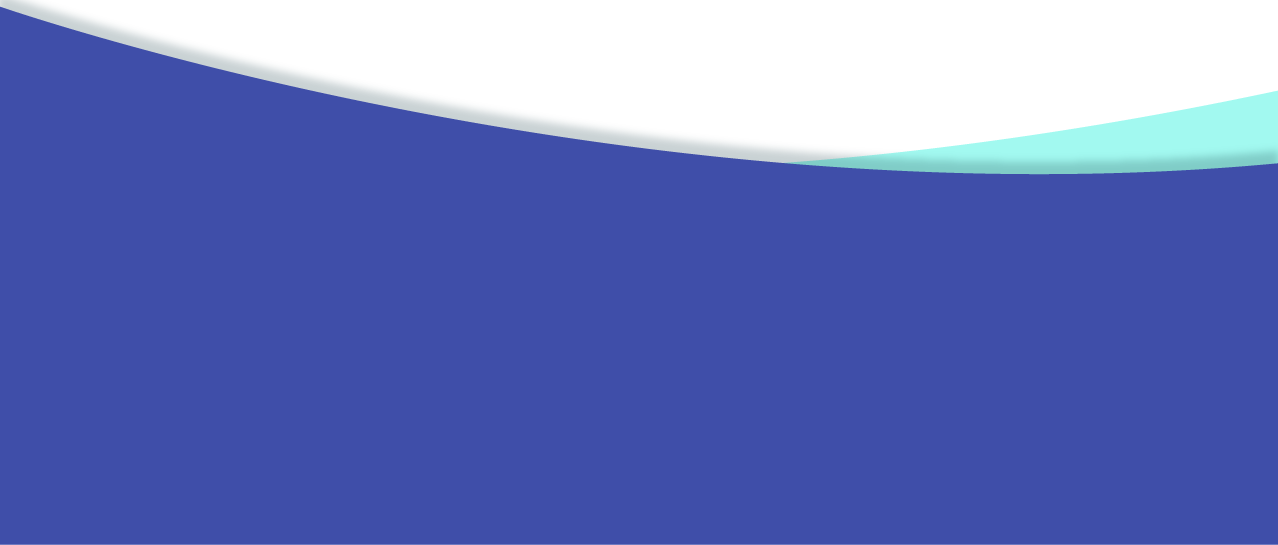
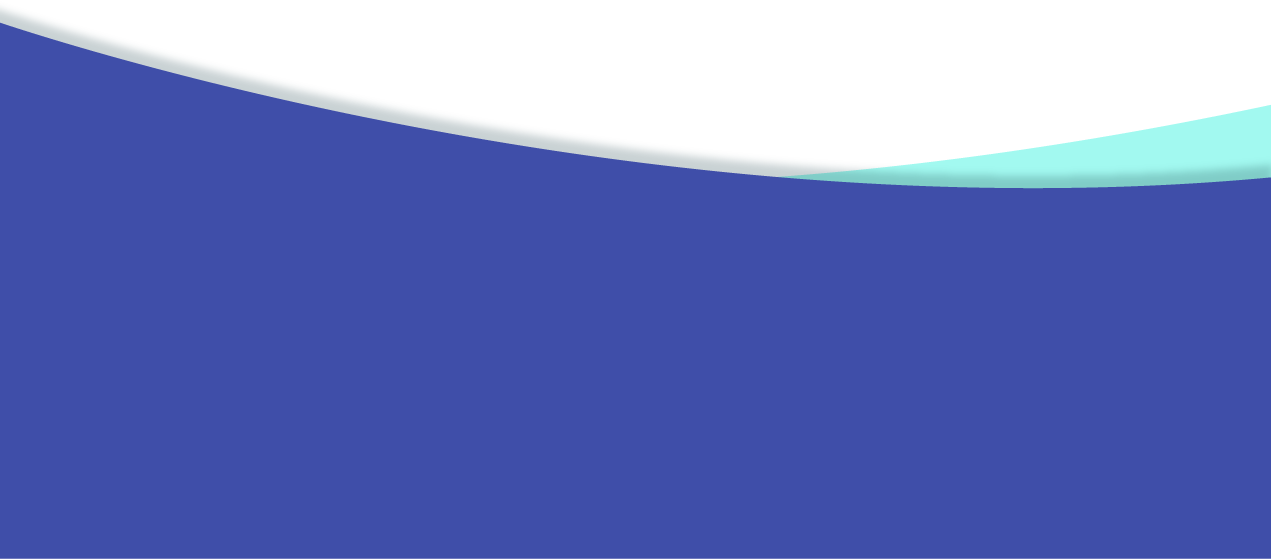
Add footer responsiveness.

Changed region(s): [[0.0, 0.0, 1.0, 0.3431]]

diff --git a/components/FooterComponent.js b/components/FooterComponent.js
@@ -1,19 +1,19 @@
-export default ()=><div className="footer__container">
+export default () => <div className="footer__container">
   <div className="footer__elements-container">
-    <div className="d-flex justify-content-around">
-      <div>
+    <div className="footer__sign">
       <h2>Invuelto.com</h2>
       <h2>Tu partner de ahorro</h2>
+    </div>
+    <div>
+      <h2 className="mb-4">Seguinos en nuestras redes</h2>
+      <div className='footer__social'>
+        <img src='../static/images/fb.png'></img>
+        <img src='../static/images/in.png'></img>
+        <img src='../static/images/insta.png'></img>
+        <img src='../static/images/twitter.png'></img>
       </div>
-      <div>
-        <h2 className="mb-4">Seguinos en nuestras redes</h2>
-        <div className='w-75 float-right d-flex justify-content-around'>
-          <img src='../static/images/fb.png'></img>
-          <img src='../static/images/in.png'></img>
-          <img src='../static/images/insta.png'></img>
-          <img src='../static/images/twitter.png'></img>
-        </div>
-        </div>
     </div>
   </div>
+  <h3 className="text-color3 text-center">Términos y condiciones</h3>
+
 </div>

diff --git a/sass/_footer.scss b/sass/_footer.scss
@@ -1,15 +1,43 @@
-.footer__container{
+.footer__container {
   width: 100%;
   overflow: hidden;
   position: relative;
-}
-.footer__elements-container{
-  height: 700px;
-  background-image: url('/static/images/footer.png');
+  background-image: url("/static/images/footer.png");
   background-repeat: no-repeat;
-  background-size: 110%;
-  background-position: 50% 0%;
+  background-size: cover;
+  z-index: -1;
+}
+.footer__elements-container {
+  display: flex;
+  justify-content: space-around;
   text-align: center;
   padding: 420px 0px 0px 0px;
   z-index: -1;
+
+}
+.footer__social {
+  width: 75%;
+  float: right;
+  display: flex;
+  justify-content: space-around;
+}
+@media screen and (max-width: 769px) {
+  .footer__container {
+    text-align: center;
+  }
+  .footer__elements-container {
+    display: block;
+    padding: 220px 0px 0px 0px;
+  }
+  .footer__social {
+    width: 100%;
+    margin: 20px 0px 40px 0px;
+  }
+  .footer__sign{
+    h2{
+      &:last-child{
+        margin: 50px 0 40px 0;
+      }
+    }
+  }
 }

diff --git a/sass/_pricing.scss b/sass/_pricing.scss
@@ -53,21 +53,10 @@
   }
   .item-normal,
   .item-important {
-    // padding: 10px 0px 0px 0px;
+    padding: 10px 0px 0px 0px;
     // margin-top: 0;
     // margin-left: 20px;
-  }
-
-  .pricing__items-container {
-    // margin-bottom: 200px;
-  }
-  .item-normal__price {
-    // margin-bottom: 30px;
-  }
-  .item-important__price {
-    // margin: 20px 0px 40px 0px;
-  }
-  .pricing__carousel {
+  }  .pricing__carousel {
     display: flex;
   }
   .slide {
@@ -80,5 +69,17 @@
     display: flex;
     align-items: center;
     justify-content: space-between;
+  }
+  .pricing__items-container {
+    margin-bottom: 200px;
+  }
+  .item-normal__price {
+    margin-bottom: 30px;
+  }
+  .item-important__price {
+    margin: 20px 0px 40px 0px;
+  }
+  .carousel .slider-wrapper{
+    height: 300px !important;
   }
 }
